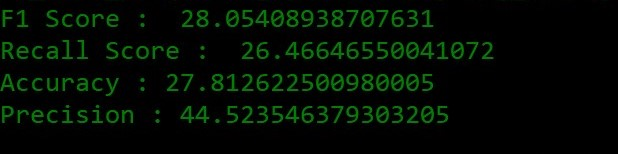
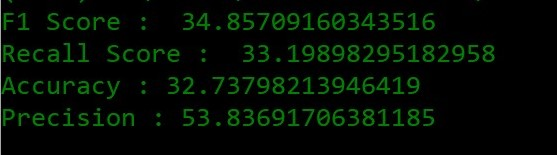
results

diff --git a/Captcha_validation/validation1.py b/Captcha_validation/validation1.py
@@ -44,7 +44,7 @@ def resize_to_fit(image, width, height):
     return image
 
 
-input_folder = "Letter extracted images/PE(overlap)"
+input_folder = "Letter extracted images/MA"
 model_filename = "captcha_model.hdf5"
 model_labels_filename = "model_labels.dat"
 
@@ -68,7 +68,7 @@ for image_file in paths.list_images(input_folder):
 data = np.array(data, dtype="float") / 255.0
 labels = np.array(labels)
 
-(X_train, X_test, Y_train, Y_test) = train_test_split(data, labels, test_size=0.95, random_state=0)
+(X_train, X_test, Y_train, Y_test) = train_test_split(data, labels, test_size=0.98, random_state=0)
 
 lb = LabelBinarizer().fit(Y_train)
 Y_train = lb.transform(Y_train)
